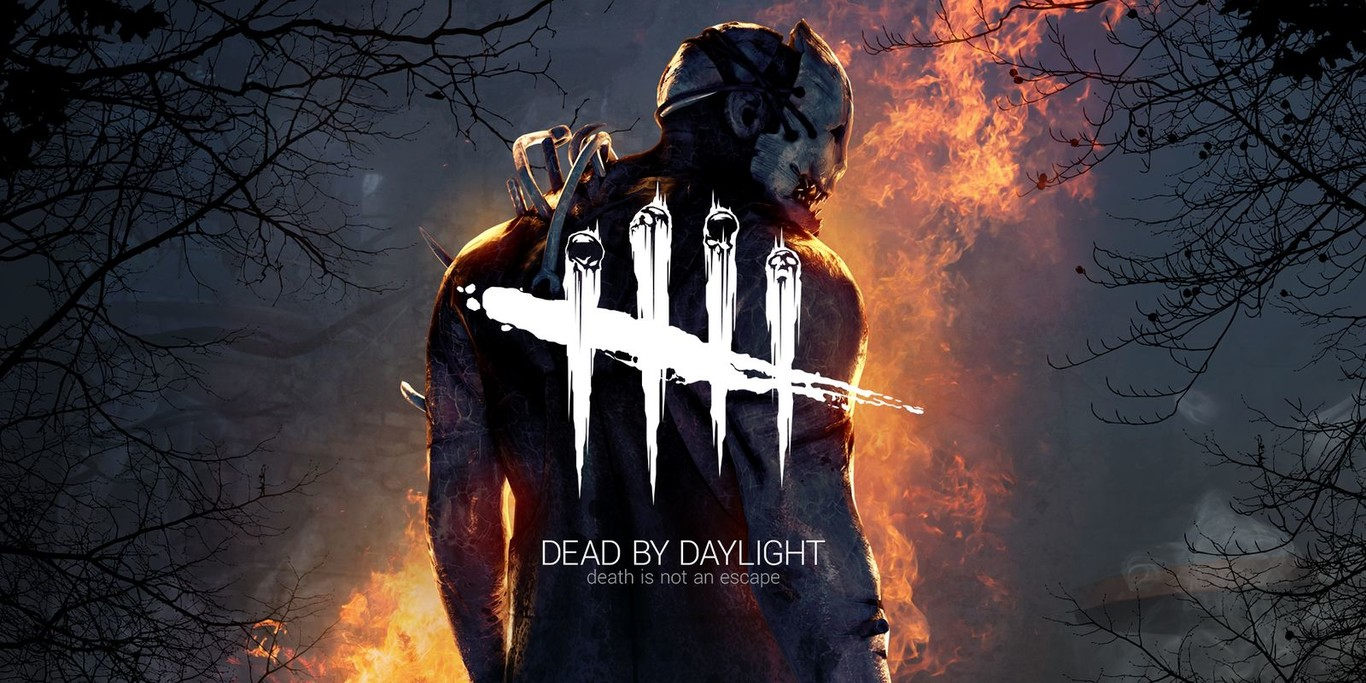
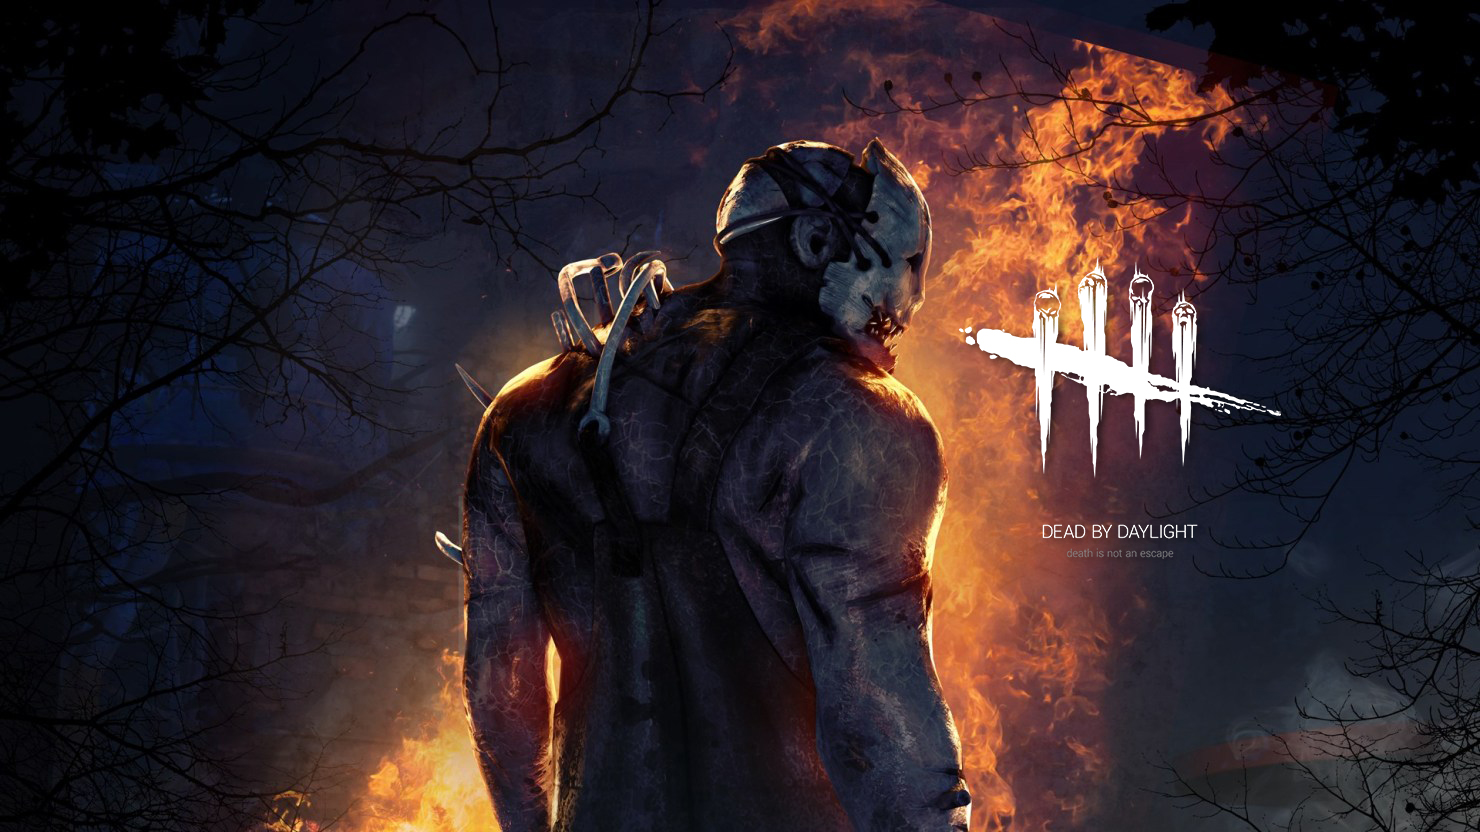
mejore el slider

diff --git a/src/components/Slider.jsx b/src/components/Slider.jsx
@@ -9,15 +9,15 @@ const Slider = () => {
                 <div className="carousel-inner">
                     <div className="carousel-item active">
                         <a href="https://youtu.be/ZhXXU0efIEQ" target="_blank" rel="noreferrer">
-                            <img src={Imagenes.slider1} alt="" width="1920" height="1080" ></img></a>
+                            <img src={Imagenes.slider1} alt="" ></img></a>
                     </div>
                     <div className="carousel-item">
                         <a href="https://youtu.be/DF_MRhPTO78" target="_blank" rel="noreferrer">
-                            <img src={Imagenes.slider2} alt="" width="1920" height="1080"></img></a>
+                            <img src={Imagenes.slider2} alt="" ></img></a>
                     </div>
                     <div className="carousel-item">
                         <a href="https://youtu.be/ov1i5TYUTJg" target="_blank" rel="noreferrer">
-                            <img src={Imagenes.slider3} alt="" width="1920" height="1080"></img></a>
+                            <img src={Imagenes.slider3} alt="" ></img></a>
                     </div>
                 </div>
 

diff --git a/public/index.html b/public/index.html
@@ -19,18 +19,7 @@
 
 
     <link rel="stylesheet" href="https://stackpath.bootstrapcdn.com/bootstrap/4.3.1/css/bootstrap.min.css" 
-    integrity="sha384-ggOyR0iXCbMQv3Xipma34MD+dH/1fQ784/j6cY/iJTQUOhcWr7x9JvoRxT2MZw1T" crossorigin="anonymous">
-    <style>
-      .carousel-inner img {
-        width: 100%;
-        height: 500px;
-        object-fit: cover;
-      }
-      .container-slider{
-        margin-top: 67px;
-        box-shadow: 0 2px 4px #000000;
-      }
-    </style> 
+    integrity="sha384-ggOyR0iXCbMQv3Xipma34MD+dH/1fQ784/j6cY/iJTQUOhcWr7x9JvoRxT2MZw1T" crossorigin="anonymous"> 
 
     <title>Dead by Daylight CHARACTERS</title>
   </head>

diff --git a/src/components/Nav.jsx b/src/components/Nav.jsx
@@ -22,7 +22,7 @@ const Nav = () => {
             <nav className="container-nav">
                 <a href={<Nav/>}><img src={Imagenes.logodbd}></img></a>
                 <a href="#inicio"><p id="ini" className="p-responsive2">Inicio</p></a>
-                <a href="#info_carousel-indicators"><p className="p-responsive">Info</p></a>
+                <a href="#info_carousel-indicators"><p className="p-responsive2">Info</p></a>
                 <a href="#title1"><p className="p-responsive">Survivors</p></a>
                 <a href="#title2"><p className="p-responsive">Killers</p></a>
                 <div>

diff --git a/src/styles/Nav.css b/src/styles/Nav.css
@@ -53,16 +53,21 @@
 }
 
 
-@media only screen and (max-width:800px){
+@media only screen and (max-width:930px){
     .p-responsive{
         display: none;
     }
 }
-@media only screen and (max-width:550px){
+@media only screen and (max-width:700px){
     .p-responsive2{
         display: none;
     }
-    .container-nav img{
-        margin: 10px;
+}
+
+@media only screen and (max-width:430px){
+    .buy{
+        font-size: 15px;
+        padding: 30px;
     }
+    
 }

diff --git a/src/App.js b/src/App.js
@@ -4,6 +4,7 @@ import './styles/Nav.css';
 import './styles/Info.css';
 import './styles/Cards.css';
 import './styles/Footer.css';
+import './styles/Slider.css';
 import Imagenes from './resources/Imagenes';
 import Nav from './components/Nav.jsx';
 import Slider from './components/Slider';

diff --git a/src/styles/Slider.css b/src/styles/Slider.css
@@ -1,0 +1,13 @@
+
+.carousel-inner{
+    margin-top: 67px;
+    box-shadow: 0 2px 4px #000000;
+    width: 100%;
+    max-height: 500px;
+}
+
+.carousel-item img {
+    width: 100%;
+    max-height: 500px;
+    object-fit: cover;
+}

diff --git a/src/styles/Footer.css b/src/styles/Footer.css
@@ -36,6 +36,7 @@
     flex-direction: row;
     align-items: center;
     margin: 20px 0;
+    flex-wrap: wrap;
 }
 .p-footer p{
     font-size: 15px;
